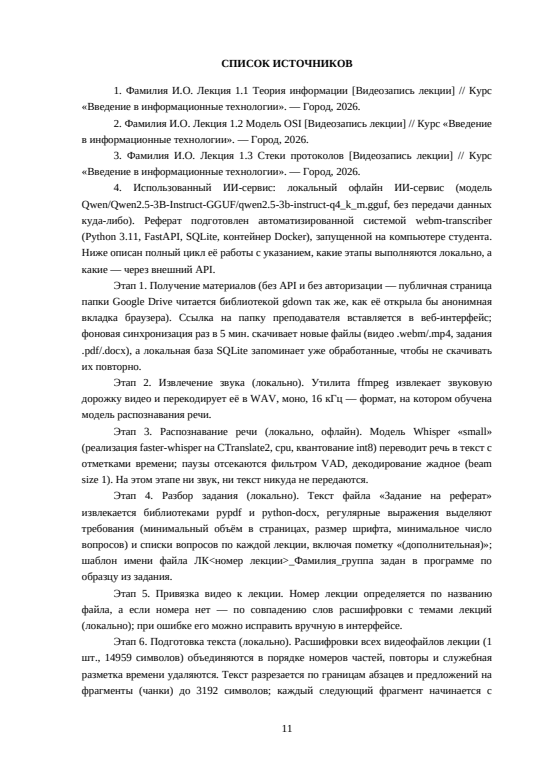
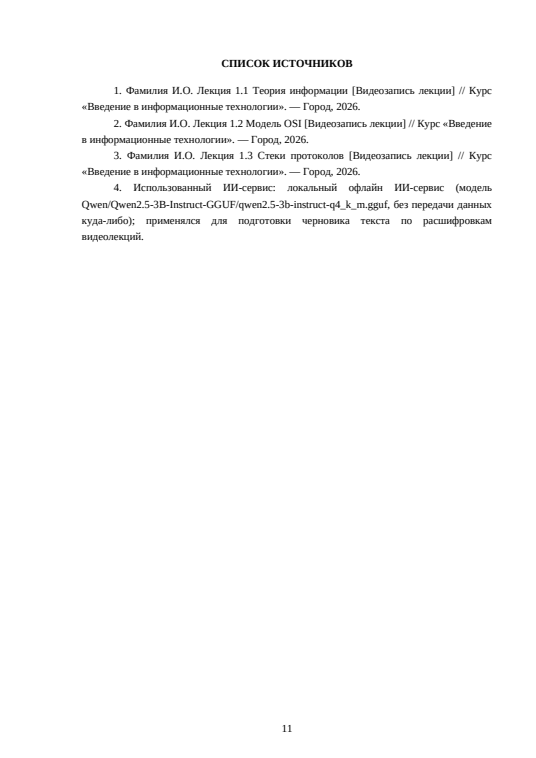
Реферат: в источниках одна строка про ИИ-сервис, подробности — в отдельный файл
Полное описание цикла работы и все промты теперь пишутся рядом с документом в
файл <имя>.ИИ-сервис.txt, а в «Списке источников» остаётся только требуемое
задание: какой сервис использовался.

Changed region(s): [[0.1493, 0.2731, 0.9254, 0.9406]]

diff --git a/app/reference/writer.py b/app/reference/writer.py
@@ -1125,20 +1125,23 @@ def build_disclosure(
     return "\n\n".join(paragraphs)
 
 
-def _sources(
-    lecture_numbers: list[int],
-    materials: list[db.Material],
-    analyses: list[LectureAnalysis],
-    engine_calls: int,
-    split: bool,
-    font_size: int,
-    notes: list[str] = (),
-) -> list[str]:
+def build_short_disclosure() -> str:
+    """One-line ИИ-сервис item for «СПИСОК ИСТОЧНИКОВ»: the assignment asks
+    which service and prompt were used, so the service is always named in the
+    document itself, while the full technical description goes to the
+    companion file written by :func:`_write_disclosure`."""
+    return (
+        f"Использованный ИИ-сервис: {_current_engine_description()}; применялся для подготовки "
+        "черновика текста по расшифровкам видеолекций."
+    )
+
+
+def _sources(lecture_numbers: list[int], materials: list[db.Material]) -> list[str]:
     city, year = _city_and_year()
     sources = _video_sources(materials) or [
         f"Видеолекция №{n} курса «{config.REFERENCE_DISCIPLINE}», {year or city}." for n in lecture_numbers
     ]
-    sources.append(build_disclosure(analyses, engine_calls, split, font_size, notes))
+    sources.append(build_short_disclosure())
     return sources
 
 
@@ -1209,9 +1212,7 @@ def _write_reference_document(
         content = ReferenceContent(
             title_page=title_info,
             sections=[(f"{n} {s.question}", s.answer) for n, s in enumerate(ordered, start=1)],
-            sources=_sources(
-                [lecture.lecture_number], materials, [analysis], generate_fn.calls, split, rules.font_size, [notes]
-            ),
+            sources=_sources([lecture.lecture_number], materials),
         )
         answered = LectureQuestions(
             lecture_number=lecture.lecture_number, topic=lecture.topic, questions=[s.question for s in ordered]
@@ -1263,6 +1264,7 @@ def _write_reference_document(
             section.answer = longer
             report = rebuild()
     _write_trace(output_path, trace, report)
+    _write_disclosure(output_path, [analysis], generate_fn.calls, split, rules.font_size, [notes])
     return output_path, report
 
 
@@ -1277,6 +1279,34 @@ def _write_trace(output_path: Path, trace: list[str], report: Optional[CheckRepo
         output_path.with_name(f"{output_path.stem}.trace.txt").write_text("\n".join(lines) + "\n", encoding="utf-8")
     except OSError:
         log.exception("Trace for %s could not be written", output_path.name)
+
+
+def _write_disclosure(
+    output_path: Path,
+    analyses: list[LectureAnalysis],
+    engine_calls: int,
+    split: bool,
+    font_size: int,
+    notes: list[str],
+) -> None:
+    """Companion note next to the документ: the full cycle of the service with
+    every prompt. It is deliberately kept out of the реферат itself — the
+    student decides how to hand it in — but it is always written, so the
+    question «какой сервис и какой промт» can be answered honestly."""
+    try:
+        text = build_disclosure(analyses, engine_calls, split, font_size, notes)
+    except Exception:
+        log.exception("Disclosure for %s could not be built", output_path.name)
+        return
+    header = (
+        "Как подготовлен этот реферат (сопроводительная записка для преподавателя).\n"
+        "В самом реферате в списке источников указан только используемый ИИ-сервис; "
+        "здесь описан полный цикл работы программы и приведены все промты.\n\n"
+    )
+    try:
+        output_path.with_name(f"{output_path.stem}.ИИ-сервис.txt").write_text(header + text + "\n", encoding="utf-8")
+    except OSError:
+        log.exception("Disclosure for %s could not be written", output_path.name)
 
 
 def _validate_material_and_lecture(material_id: str) -> tuple[db.Material, LectureQuestions]:
@@ -1551,10 +1581,7 @@ def generate_combined_reference(
     content = ReferenceContent(
         title_page=title_info,
         sections=sections,
-        sources=_sources(
-            lecture_numbers, materials, analyses, counter.calls, False, rules.font_size,
-            [_combined_notes(lecture_by_number[n].notes) for n in lecture_numbers],
-        ),
+        sources=_sources(lecture_numbers, materials),
     )
     combined_lecture = LectureQuestions(
         lecture_number="-".join(str(n) for n in lecture_numbers),  # type: ignore[arg-type]
@@ -1563,5 +1590,9 @@ def generate_combined_reference(
     )
     report = _build_documents(output_path, content, rules, filename, combined_lecture)
     _write_trace(output_path, trace, report)
+    _write_disclosure(
+        output_path, analyses, counter.calls, False, rules.font_size,
+        [_combined_notes(lecture_by_number[n].notes) for n in lecture_numbers],
+    )
     notify("Готово", 100)
     return output_path, report

diff --git a/tests/test_reference_writer.py b/tests/test_reference_writer.py
@@ -242,5 +242,11 @@ def test_generate_reference_includes_ai_disclosure_in_sources():
     from pypdf import PdfReader
 
     text = "\n".join(p.extract_text() or "" for p in PdfReader(str(output_path)).pages)
+    # The документ names the service in one line; the full cycle with every
+    # prompt goes to the companion note the student hands in separately.
     assert "ИИ-сервис" in text
-    assert "Промт" in text or "промт" in text
+    assert "Этап 1" not in text
+
+    note = output_path.with_name(f"{output_path.stem}.ИИ-сервис.txt").read_text(encoding="utf-8")
+    assert "ИИ-сервис" in note
+    assert "Промт" in note or "промт" in note
